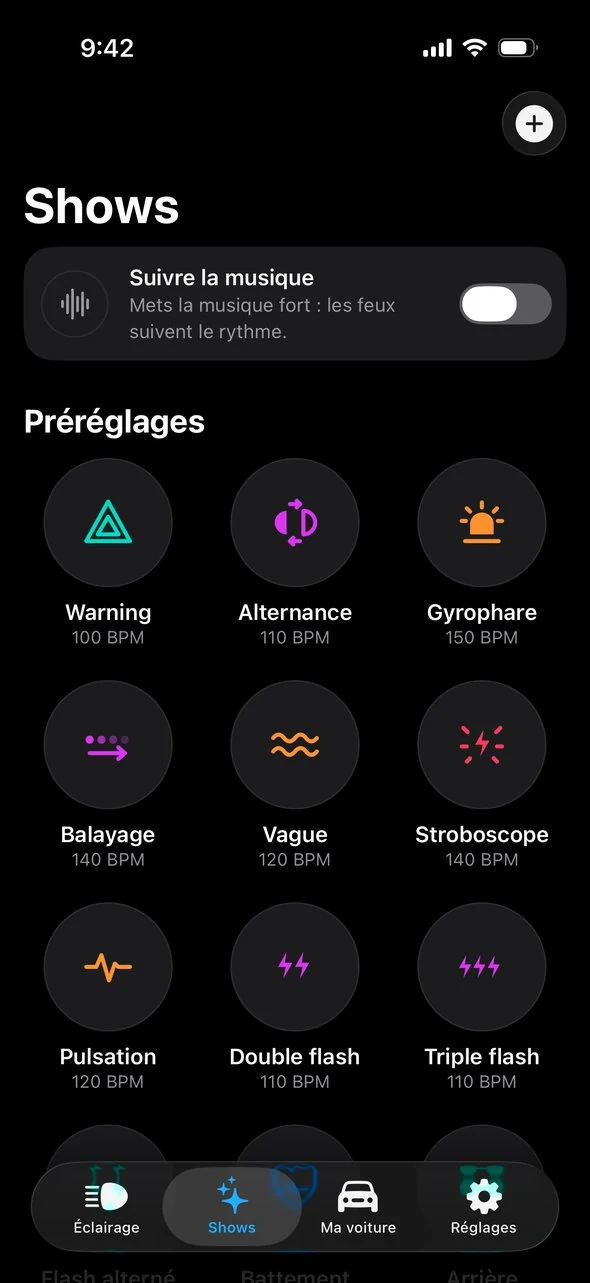
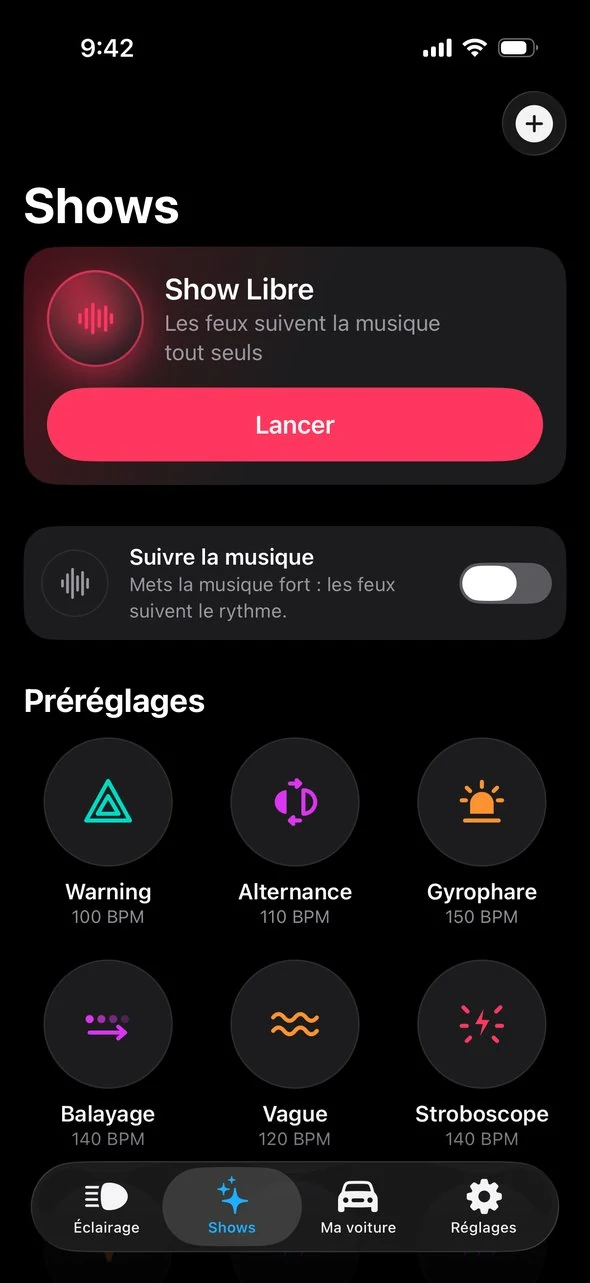
Captures de l'app à jour

diff --git a/index.html b/index.html
@@ -8,7 +8,7 @@
 <div class="demo"><div class="stage"><div class="car" role="img" aria-label="Voiture vue de face"><img class="base" src="assets/car/photo-front-off.jpg?v=8e6ae17b" alt=""><img class="lamp" data-id="f:drl-screenLeft" src="assets/car/photo-front-drl-screenLeft.jpg?v=72bc1099" alt="" decoding="async"><img class="lamp" data-id="f:drl-screenRight" src="assets/car/photo-front-drl-screenRight.jpg?v=9e6c1c24" alt="" decoding="async"><img class="lamp" data-id="f:low-screenLeft" src="assets/car/photo-front-low-screenLeft.jpg?v=83283237" alt="" decoding="async"><img class="lamp" data-id="f:low-screenRight" src="assets/car/photo-front-low-screenRight.jpg?v=8a095258" alt="" decoding="async"><img class="lamp" data-id="f:high-screenLeft" src="assets/car/photo-front-high-screenLeft.jpg?v=64660b8b" alt="" decoding="async"><img class="lamp" data-id="f:high-screenRight" src="assets/car/photo-front-high-screenRight.jpg?v=4de06d04" alt="" decoding="async"><img class="lamp" data-id="f:fog-screenLeft" src="assets/car/photo-front-fog-screenLeft.jpg?v=b853a492" alt="" decoding="async"><img class="lamp" data-id="f:fog-screenRight" src="assets/car/photo-front-fog-screenRight.jpg?v=548866b0" alt="" decoding="async"><img class="lamp" data-id="f:indicator-screenLeft" src="assets/car/photo-front-indicator-screenLeft.jpg?v=9acfd933" alt="" decoding="async"><img class="lamp" data-id="f:indicator-screenRight" src="assets/car/photo-front-indicator-screenRight.jpg?v=165abdf5" alt="" decoding="async"><img class="lamp" data-id="f:interior" src="assets/car/photo-front-interior.jpg?v=b5b0edce" alt="" decoding="async"></div><div class="car" role="img" aria-label="Voiture vue de dos"><img class="base" src="assets/car/photo-rear-off.jpg?v=e3950e67" alt=""><img class="lamp" data-id="r:tail-screenLeft" src="assets/car/photo-rear-tail-screenLeft.jpg?v=e7f3bf3d" alt="" decoding="async"><img class="lamp" data-id="r:tail-screenRight" src="assets/car/photo-rear-tail-screenRight.jpg?v=f12be747" alt="" decoding="async"><img class="lamp" data-id="r:indicator-screenLeft" src="assets/car/photo-rear-indicator-screenLeft.jpg?v=14cddb7d" alt="" decoding="async"><img class="lamp" data-id="r:indicator-screenRight" src="assets/car/photo-rear-indicator-screenRight.jpg?v=b0662880" alt="" decoding="async"><img class="lamp" data-id="r:reverse-screenLeft" src="assets/car/photo-rear-reverse-screenLeft.jpg?v=d0878755" alt="" decoding="async"><img class="lamp" data-id="r:reverse-screenRight" src="assets/car/photo-rear-reverse-screenRight.jpg?v=23de72f7" alt="" decoding="async"><img class="lamp" data-id="r:brake" src="assets/car/photo-rear-brake.jpg?v=8d4208c7" alt="" decoding="async"><img class="lamp" data-id="r:fog" src="assets/car/photo-rear-fog.jpg?v=1d9a133c" alt="" decoding="async"><img class="lamp" data-id="r:interior" src="assets/car/photo-rear-interior.jpg?v=e815d283" alt="" decoding="async"></div><canvas class="fx" aria-hidden="true"></canvas></div><div class="pads"><button class="pbtn" data-l="drl" style="--c:#ffd60a" aria-pressed="false"><span class="pp"><svg viewBox="0 0 32 32" width="26" height="26" fill="none" stroke="currentColor" stroke-width="2.4" stroke-linecap="round" stroke-linejoin="round"><path d="M19 6c5.5 0 9 4.5 9 10s-3.5 10-9 10z" fill="currentColor"/><path d="M14 8.5 9.5 6M14 13 8.5 12M14 19 8.5 20M14 23.5 9.5 26"/></svg></span><span class="pl">Feux de jour</span></button><button class="pbtn" data-l="low" style="--c:#0a84ff" aria-pressed="false"><span class="pp"><svg viewBox="0 0 32 32" width="26" height="26" fill="none" stroke="currentColor" stroke-width="2.4" stroke-linecap="round" stroke-linejoin="round"><path d="M19 6c5.5 0 9 4.5 9 10s-3.5 10-9 10z" fill="currentColor"/><path d="M14 9 5 12M14 14.5 5 17.5M14 20 5 23"/></svg></span><span class="pl">Croisement</span></button><button class="pbtn" data-l="high" style="--c:#0a84ff" aria-pressed="false"><span class="pp"><svg viewBox="0 0 32 32" width="26" height="26" fill="none" stroke="currentColor" stroke-width="2.4" stroke-linecap="round" stroke-linejoin="round"><path d="M19 6c5.5 0 9 4.5 9 10s-3.5 10-9 10z" fill="currentColor"/><path d="M14 10H4M14 16H4M14 22H4"/></svg></span><span class="pl">Route</span></button><button class="pbtn" data-l="fog" style="--c:#ffd60a" aria-pressed="false"><span class="pp"><svg viewBox="0 0 32 32" width="26" height="26" fill="none" stroke="currentColor" stroke-width="2.4" stroke-linecap="round" stroke-linejoin="round"><path d="M19 6c5.5 0 9 4.5 9 10s-3.5 10-9 10z" fill="currentColor"/><path d="M14 10 4 12M14 16 4 18M14 22 4 24"/><path d="M9.5 6q2.5 3 0 6t0 6 0 6 0 6" stroke-width="2"/></svg></span><span class="pl">Antibrouillard</span></button><button class="pbtn" data-l="indL" style="--c:#ff9f0a" aria-pressed="false"><span class="pp"><svg viewBox="0 0 32 32" width="26" height="26" fill="none" stroke="currentColor" stroke-width="2.4" stroke-linecap="round" stroke-linejoin="round"><path d="M4 16 14 6v6h14v8H14v6z" fill="currentColor"/></svg></span><span class="pl">Clignotant G</span></button><button class="pbtn" data-l="indR" style="--c:#ff9f0a" aria-pressed="false"><span class="pp"><span style="display:inline-flex;transform:scaleX(-1)"><svg viewBox="0 0 32 32" width="26" height="26" fill="none" stroke="currentColor" stroke-width="2.4" stroke-linecap="round" stroke-linejoin="round"><path d="M4 16 14 6v6h14v8H14v6z" fill="currentColor"/></svg></span></span><span class="pl">Clignotant D</span></button><button class="pbtn" data-l="hazard" style="--c:#ff9f0a" aria-pressed="false"><span class="pp"><svg viewBox="0 0 32 32" width="26" height="26" fill="none" stroke="currentColor" stroke-width="2.4" stroke-linecap="round" stroke-linejoin="round"><path d="M16 3.5 29 27H3z"/><path d="M16 12.5 22.2 23H9.8z"/></svg></span><span class="pl">Warning</span></button><button class="pbtn" data-l="tail" style="--c:#ff453a" aria-pressed="false"><span class="pp"><svg viewBox="0 0 32 32" width="26" height="26" fill="none" stroke="currentColor" stroke-width="2.4" stroke-linecap="round" stroke-linejoin="round"><rect x="4" y="10" width="24" height="12" rx="4"/><rect x="8" y="14" width="16" height="4" rx="2" fill="currentColor"/></svg></span><span class="pl">Feux arrière</span></button><button class="pbtn" data-l="brake" style="--c:#ff453a" aria-pressed="false"><span class="pp"><svg viewBox="0 0 32 32" width="26" height="26" fill="none" stroke="currentColor" stroke-width="2.4" stroke-linecap="round" stroke-linejoin="round"><rect x="4" y="11" width="24" height="12" rx="4" fill="currentColor"/><path d="M9 6.5 7.5 4M16 6V3M23 6.5 24.5 4"/></svg></span><span class="pl">Stop</span></button><button class="pbtn" data-l="reverse" style="--c:#aeaeb2" aria-pressed="false"><span class="pp"><svg viewBox="0 0 32 32" width="26" height="26" fill="none" stroke="currentColor" stroke-width="2.4" stroke-linecap="round" stroke-linejoin="round"><rect x="5" y="5" width="22" height="22" rx="6"/><path d="M12.5 22.5v-13h5a3.8 3.8 0 0 1 0 7.6h-5M17.5 17l3.5 5.5" stroke-width="2.6"/></svg></span><span class="pl">Recul</span></button><button class="pbtn" data-l="inside" style="--c:#bfd9ff" aria-pressed="false"><span class="pp"><svg viewBox="0 0 32 32" width="26" height="26" fill="none" stroke="currentColor" stroke-width="2.4" stroke-linecap="round" stroke-linejoin="round"><path d="M5 9h22"/><path d="M9 9.5h14a7 7 0 0 1-14 0z" fill="currentColor"/><path d="M16 21v5M10 19.5l-2.5 4M22 19.5l2.5 4"/></svg></span><span class="pl">Intérieur</span></button><div class="showrow"><div class="sh">Shows</div><div class="shpads"><button class="pbtn" data-show="pulsation" style="--c:#ff9f0a" aria-pressed="false"><span class="pp"><svg viewBox="0 0 32 32" width="28" height="28" fill="none" stroke="currentColor" stroke-width="2.4" stroke-linecap="round" stroke-linejoin="round"><path d="M3 16h6l3-7 4.5 15 3.5-10 2 2h7"/></svg></span><span class="pl">Pulsation</span></button><button class="pbtn" data-show="double" style="--c:#0a84ff" aria-pressed="false"><span class="pp"><svg viewBox="0 0 32 32" width="28" height="28" fill="none" stroke="currentColor" stroke-width="2.4" stroke-linecap="round" stroke-linejoin="round"><path d="M11 7l-5 9h4.5l-1.5 7 5.5-9.5h-4.5z" fill="currentColor"/><path d="M21 7l-5 9h4.5l-1.5 7 5.5-9.5h-4.5z" fill="currentColor"/></svg></span><span class="pl">Double flash</span></button><button class="pbtn" data-show="bienvenue" style="--c:#30d158" aria-pressed="false"><span class="pp"><svg viewBox="0 0 32 32" width="28" height="28" fill="none" stroke="currentColor" stroke-width="2.4" stroke-linecap="round" stroke-linejoin="round"><path d="M5 22v-6l3-6h16l3 6v6z"/><circle cx="10" cy="17" r="2" fill="currentColor"/><circle cx="22" cy="17" r="2" fill="currentColor"/><path d="M6.5 22v3M25.5 22v3M16 2v3M10 4l1.5 2M22 4l-1.5 2"/></svg></span><span class="pl">Bienvenue</span></button><button class="pbtn" data-show="hante" data-theme-only="halloween" style="--c:#ff7a00" aria-pressed="false" hidden><span class="pp"><svg viewBox="0 0 32 32" width="28" height="28" fill="none" stroke="currentColor" stroke-width="2.4" stroke-linejoin="round"><path d="M7 28V14a9 9 0 0 1 18 0v14l-3-2.5-3 2.5-3-2.5-3 2.5-3-2.5z" fill="currentColor" fill-opacity=".25"/><circle cx="12.5" cy="14" r="1.8" fill="currentColor"/><circle cx="19.5" cy="14" r="1.8" fill="currentColor"/></svg></span><span class="pl">Hanté</span></button><button class="pbtn" data-show="guirlande" data-theme-only="noel" style="--c:#ff453a" aria-pressed="false" hidden><span class="pp"><svg viewBox="0 0 32 32" width="28" height="28" fill="currentColor"><path d="M16 3l2.6 7.4L26 13l-7.4 2.6L16 23l-2.6-7.4L6 13l7.4-2.6z"/><path d="M25 19l1.2 3.3 3.3 1.2-3.3 1.2L25 28l-1.2-3.3-3.3-1.2 3.3-1.2z"/><path d="M7 20l.9 2.4 2.4.9-2.4.9L7 26.6l-.9-2.4-2.4-.9 2.4-.9z"/></svg></span><span class="pl">Guirlande</span></button><button class="pbtn" data-show="ruban" data-theme-only="octobre-rose" style="--c:#ff3796" aria-pressed="false" hidden><span class="pp"><svg viewBox="0 0 32 32" width="28" height="28" fill="none" stroke="currentColor" stroke-width="2.6" stroke-linecap="round" stroke-linejoin="round"><path d="M12 29l7-12c2-3.5 2.5-6 1-8.5a4.6 4.6 0 0 0-8 0c-1.5 2.5-1 5 1 8.5l7 12"/></svg></span><span class="pl">Ruban</span></button><button class="pbtn" data-show="printemps" data-theme-only="paques" style="--c:#ff96be" aria-pressed="false" hidden><span class="pp"><svg viewBox="0 0 32 32" width="28" height="28" fill="currentColor"><ellipse cx="16" cy="9.5" rx="4.2" ry="6" transform="rotate(0 16 16)"/><ellipse cx="16" cy="9.5" rx="4.2" ry="6" transform="rotate(72 16 16)"/><ellipse cx="16" cy="9.5" rx="4.2" ry="6" transform="rotate(144 16 16)"/><ellipse cx="16" cy="9.5" rx="4.2" ry="6" transform="rotate(216 16 16)"/><ellipse cx="16" cy="9.5" rx="4.2" ry="6" transform="rotate(288 16 16)"/><circle cx="16" cy="16" r="3.2" fill="#1c1c1e"/></svg></span><span class="pl">Printemps</span></button><button class="pbtn" data-show="compte" data-theme-only="nouvel-an" style="--c:#ffc43c" aria-pressed="false" hidden><span class="pp"><svg viewBox="0 0 32 32" width="28" height="28" fill="none" stroke="currentColor" stroke-width="2.4" stroke-linecap="round"><circle cx="16" cy="17" r="11"/><path d="M16 11v6l4 3M13 3h6"/><path d="M26 7l2-2"/></svg></span><span class="pl">Compte à rebours</span></button></div><button class="pbtn showbtn" data-show="mix" style="--c:#bf5af2" aria-pressed="false"><span class="pp"><svg viewBox="0 0 32 32" width="22" height="22" fill="none" stroke="currentColor" stroke-width="2.4" stroke-linecap="round" stroke-linejoin="round"><path d="M3 16h6l3-7 4.5 15 3.5-10 2 2h7"/></svg></span><span class="pl">Lancer un show</span></button><div class="shmore">+ 10 autres shows dans l'app, et ils suivent ta musique.</div></div></div><div class="hint">Touche une pastille : les feux s'allument comme dans l'app.</div></div></div></div>
 <section><div class="wrap"><h2>Tes feux, ton style.</h2><p class="sub">Pensée pour les passionnés, faite pour briller la nuit.</p><div class="features"><div class="feat"><div class="past" style="width:60px;height:60px;color:#0a84ff;background:radial-gradient(120% 120% at 30% 15%, #0a84ff66, #1c1c1e 75%);box-shadow:0 0 0 1.5px #0a84ffb3 inset,0 6px 22px -4px #0a84ff99"><div style="display:flex;filter:drop-shadow(0 0 6px #0a84ff)"><svg viewBox="0 0 32 32" width="30" height="30" fill="none" stroke="#0a84ff" stroke-width="2.4" stroke-linecap="round" stroke-linejoin="round"><path d="M19 6c5.5 0 9 4.5 9 10s-3.5 10-9 10z" fill="#0a84ff"/><path d="M14 9 5 12M14 14.5 5 17.5M14 20 5 23"/></svg></div></div><h3>Tes feux, en direct</h3><p>Croisement, route, clignotants, stop, recul, et même l'éclairage intérieur. Touche une pastille, le feu s'allume. Mode « Maintenir » à plusieurs doigts.</p></div><div class="feat"><div class="past" style="width:60px;height:60px;color:#ff375f;background:radial-gradient(120% 120% at 30% 15%, #ff375f66, #1c1c1e 75%);box-shadow:0 0 0 1.5px #ff375fb3 inset,0 6px 22px -4px #ff375f99"><div style="display:flex;filter:drop-shadow(0 0 6px #ff375f)"><svg viewBox="0 0 32 32" width="28" height="28" stroke="#ff375f" stroke-width="2.6" stroke-linecap="round"><path d="M4 13v6M9 9v14M14 5v22M19 10v12M24 7v18M28.5 13v6"/></svg></div></div><h3>Suit la musique</h3><p>L'iPhone écoute le rythme au micro et fait danser tes feux sur chaque temps fort. Rien n'est enregistré.</p></div><div class="feat"><div class="past" style="width:60px;height:60px;color:#ff9f0a;background:radial-gradient(120% 120% at 30% 15%, #ff9f0a66, #1c1c1e 75%);box-shadow:0 0 0 1.5px #ff9f0ab3 inset,0 6px 22px -4px #ff9f0a99"><div style="display:flex;filter:drop-shadow(0 0 6px #ff9f0a)"><svg viewBox="0 0 32 32" width="30" height="30" fill="none" stroke="#ff9f0a" stroke-width="2.4" stroke-linecap="round" stroke-linejoin="round"><path d="M3 16h6l3-7 4.5 15 3.5-10 2 2h7"/></svg></div></div><h3>13 shows prêts</h3><p>Pulsation, double flash, gyrophare, vague, bienvenue… Et des shows spéciaux pour Halloween et Noël.</p></div><div class="feat"><div class="past" style="width:60px;height:60px;color:#bf5af2;background:radial-gradient(120% 120% at 30% 15%, #bf5af266, #1c1c1e 75%);box-shadow:0 0 0 1.5px #bf5af2b3 inset,0 6px 22px -4px #bf5af299"><div style="display:flex;filter:drop-shadow(0 0 6px #bf5af2)"><svg viewBox="0 0 32 32" width="28" height="28" fill="#bf5af2"><rect x="4" y="5" width="6" height="6" rx="1.5"/><rect x="13" y="5" width="6" height="6" rx="1.5" opacity=.35/><rect x="22" y="5" width="6" height="6" rx="1.5"/><rect x="4" y="14" width="6" height="6" rx="1.5" opacity=.35/><rect x="13" y="14" width="6" height="6" rx="1.5"/><rect x="22" y="14" width="6" height="6" rx="1.5" opacity=.35/><rect x="4" y="23" width="6" height="6" rx="1.5"/><rect x="13" y="23" width="6" height="6" rx="1.5" opacity=.35/><rect x="22" y="23" width="6" height="6" rx="1.5"/></svg></div></div><h3>Crée tes shows</h3><p>Une grille feux × pas pour composer tes séquences, ou enregistre en direct ce que tu joues.</p></div><div class="feat"><div class="past" style="width:60px;height:60px;color:#ffd60a;background:radial-gradient(120% 120% at 30% 15%, #ffd60a66, #1c1c1e 75%);box-shadow:0 0 0 1.5px #ffd60ab3 inset,0 6px 22px -4px #ffd60a99"><div style="display:flex;filter:drop-shadow(0 0 6px #ffd60a)"><svg viewBox="0 0 32 32" width="30" height="30" fill="none" stroke="#ffd60a" stroke-width="2.4" stroke-linecap="round" stroke-linejoin="round"><path d="M19 6c5.5 0 9 4.5 9 10s-3.5 10-9 10z" fill="#ffd60a"/><path d="M14 8.5 9.5 6M14 13 8.5 12M14 19 8.5 20M14 23.5 9.5 26"/></svg></div></div><h3>Ta voiture à l'écran</h3><p>Vue avant et arrière réalistes qui s'allument feu par feu, en même temps que la vraie.</p></div><div class="feat"><div class="past" style="width:60px;height:60px;color:#30d158;background:radial-gradient(120% 120% at 30% 15%, #30d15866, #1c1c1e 75%);box-shadow:0 0 0 1.5px #30d158b3 inset,0 6px 22px -4px #30d15899"><div style="display:flex;filter:drop-shadow(0 0 6px #30d158)"><svg viewBox="0 0 32 32" width="28" height="28" fill="none" stroke="#30d158" stroke-width="2.4" stroke-linecap="round" stroke-linejoin="round"><path d="M16 3 27 7v8c0 7-5 12-11 14C10 27 5 22 5 15V7z"/><path d="m11 16 4 4 7-8"/></svg></div></div><h3>Sans risque</h3><p>Aucun codage modifié. Commandes temporaires seulement : la voiture reprend la main à la fin d'un show.</p></div></div></div></section>
 <section class="band"><div class="wrap"><h2>Pensée pour la nuit.</h2><p class="sub">Les écrans de l'app.</p>
-<div class="shots"><img src="assets/img/06-eclairage.webp?v=5b385daa" alt="Écran Éclairage de l&#x27;app, vue avant" width="590" height="1283" loading="lazy"><img src="assets/img/14-shows.webp?v=e6955268" alt="Écran Shows et ses préréglages" width="590" height="1283" loading="lazy"><img src="assets/img/15-lecteur.webp?v=a5353a88" alt="Lecteur de show, tempo et tap tempo" width="590" height="1283" loading="lazy"><img src="assets/img/08-arriere-stop-recul.webp?v=dd6855d1" alt="Écran Éclairage, vue arrière" width="590" height="1283" loading="lazy"></div></div></section>
+<div class="shots"><img src="assets/img/06-eclairage.webp?v=0d4fcc84" alt="Écran Éclairage de l&#x27;app, vue avant" width="590" height="1283" loading="lazy"><img src="assets/img/14-shows.webp?v=486334cc" alt="Écran Shows et ses préréglages" width="590" height="1283" loading="lazy"><img src="assets/img/15-lecteur.webp?v=2af81787" alt="Lecteur de show, tempo et tap tempo" width="590" height="1283" loading="lazy"><img src="assets/img/08-arriere-stop-recul.webp?v=dd6855d1" alt="Écran Éclairage, vue arrière" width="590" height="1283" loading="lazy"></div></div></section>
 <section><div class="wrap"><h2>Prêt en 3 étapes.</h2><p class="sub">Il suffit d'un adaptateur OBD Bluetooth.</p>
 <div class="steps"><div><div class="n">1</div><h3>Branche l'adaptateur</h3><p>Sur la prise OBD, sous le volant, contact mis.</p></div>
 <div><div class="n">2</div><h3>Connecte-toi</h3><p>L'app trouve l'adaptateur et vérifie ta voiture, sans rien allumer.</p></div>
